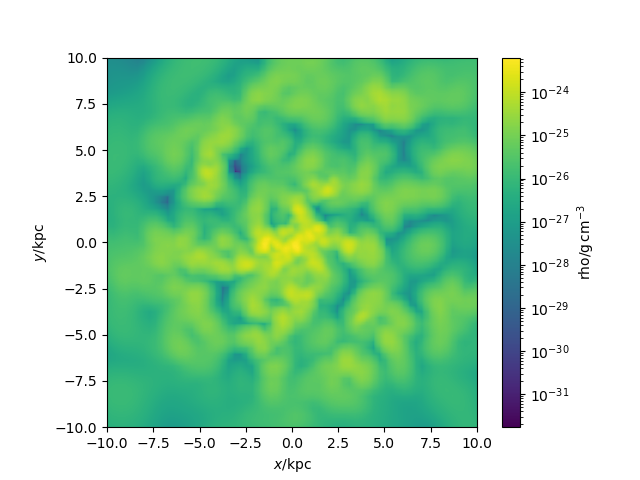
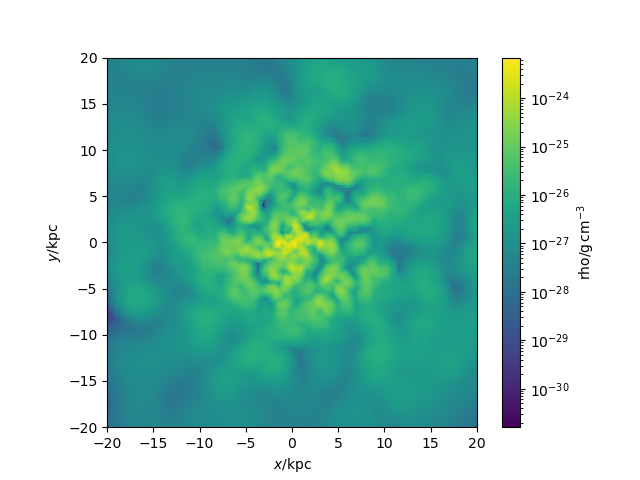
axis updated

diff --git a/r372/galaxy372_iongas.py b/r372/galaxy372_iongas.py
@@ -19,7 +19,7 @@ pynbody.analysis.angmom.faceon(s)
 GasFilter = pynbody.filt.HighPass('temp','15848 K')
 
 #creating image to show velocity of ionised gas
-sph.image(s.g[GasFilter],qty="vr",vmin=-20,width=20,denoise=True,approximate_fast=False,log=False)
+sph.image(s.g[GasFilter],qty="vr",vmin=-20,width=40,denoise=True,approximate_fast=False,log=False)
 
 #plt.show()
 plt.savefig("galaxy372_iongas.png")

diff --git a/r372/galaxy372_temp.py b/r372/galaxy372_temp.py
@@ -15,7 +15,7 @@ s.physical_units()
 pynbody.analysis.angmom.faceon(s)
 
 #creating slice to show gas temp
-sph.image(s.g,qty="temp",width=20,denoise=True,approximate_fast=False,log=True)
+sph.image(s.g,qty="temp",width=40,denoise=True,approximate_fast=False,log=True)
 
 #plt.show()
 plt.savefig("galaxy372_temp.png")

diff --git a/r372/galaxy372_velocity.py b/r372/galaxy372_velocity.py
@@ -15,7 +15,7 @@ s.physical_units()
 pynbody.analysis.angmom.faceon(s)
 
 #creating gas velocity plot
-sph.image(s.g,qty="vr",width=30,denoise=True,approximate_fast=False,log=False)
+sph.image(s.g,qty="vr",width=40,denoise=True,approximate_fast=False,log=False)
 
 #plt.show()
 plt.savefig("galaxy372_velocity.png")

diff --git a/r372/galaxy372_dens.py b/r372/galaxy372_dens.py
@@ -13,7 +13,7 @@ s.physical_units()
 pynbody.analysis.angmom.faceon(s)
 
 #creating gas density slice
-sph.image(s.g,qty="rho",units="g cm^-3",width=20)
+sph.image(s.g,qty="rho",units="g cm^-3",width=40)
 
 #plt.show()
 plt.savefig("galaxy372_dens.png")
